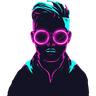
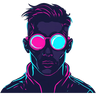
Generate cut-out subjects on white, and colour the ring and band per player
The avatars were cut badly: player 2 had a transparent hole where her face
should be, and the damage was invisible against the dark UI and obvious over any
other colour. The cause is that the neon style draws dark subjects on a
near-black ground, so rembg has to guess which darks are subject and which are
background — and it guessed differently every time. Spot came out perfectly
because a chrome dog has nothing dark about it, which was the clue.

Flooding in from the border seemed like the deterministic answer and made it
worse: coverage fell from 51% to 29%, because the subject's dark is not merely
the same colour as the ground, it is *connected* to it. The fill walks straight
in through the silhouette. It is kept as a first attempt since it suits flat
grounds and cannot eat an interior, with rembg still the fallback.

The fix is upstream: anything with cutout: true is now generated on a plain white
ground whatever the style says, which removes the ambiguity rather than trying to
resolve it. Only the subject is kept, so the ground never appears in the game.
The six avatars are regenerated and cut cleanly — coverage 50-63%, interiors
intact over any background.

The ring and the active-row band now take the player's own colour rather than the
theme accent. Six seats already have six colours and the panel is where they are
read; an accent-coloured marker said 'active' without saying who. Dark green is
[…]

diff --git a/src/ui.ts b/src/ui.ts
@@ -52,6 +52,16 @@ function meterColor(color: string): string {
   return color === DARK_GREEN ? '#57b06a' : color;
 }
 
+/**
+ * The player's colour as a *light* — for the ring and the active-row band.
+ *
+ * Same lift the meters use for dark green, for the same reason: it is drawn against a dark
+ * surface, and #2f7d3f reads as a smudge there.
+ */
+function playerLight(color: string): string {
+  return meterColor(color);
+}
+
 function initialInk(color: string): string {
   return color === DARK_GREEN || color === BLUE ? '#fff' : 'rgb(0 0 0 / .6)';
 }
@@ -790,6 +800,14 @@ export class Ui {
         const snapBottom = bottom >= CENTER.stats.height - 8 ? CENTER.stats.height : bottom;
         band.style.top = `${snapTop}px`;
         band.style.height = `${snapBottom - snapTop}px`;
+        /*
+         * The player's own colour, not the theme accent. Six seats already have six colours and
+         * the panel is where they are read; a single accent said 'active' without saying who.
+         * The wash is kept faint — the names sit on top of it and have to stay legible.
+         */
+        const light = playerLight(p.color);
+        band.style.borderLeftColor = light;
+        band.style.background = `color-mix(in srgb, ${light} 14%, transparent)`;
         panel.append(band);
       }
 
@@ -942,6 +960,9 @@ export class Ui {
         ring.setAttribute('aria-hidden', 'true');
         // Two strokes: the line itself, and a wider blurred copy that lingers as the burn-in.
         // Drawn from twelve o'clock, which is what the rotation is for.
+        // Drawn in the player's own colour: it marks a person, not a state.
+        const light = playerLight(p.color);
+        ring.style.setProperty('--ring', light);
         ring.innerHTML =
           '<svg viewBox="0 0 40 40"><g transform="rotate(-90 20 20)">' +
           '<circle class="ring-burn" cx="20" cy="20" r="18" />' +

diff --git a/src/style.css b/src/style.css
@@ -670,6 +670,7 @@ button.b.primary:disabled { background: var(--ctl); color: var(--ink-3); }
   left: 0;
   width: 100%;
   /* Height is set inline from the row's own extent — see renderStats in ui.ts. */
+  /* Both set inline from the player's colour; these are the fallback. */
   background: var(--accent-soft);
   border-radius: 0 4px 4px 0;
   border-left: 2px solid var(--accent-2);
@@ -748,10 +749,10 @@ button.b.primary:disabled { background: var(--ctl); color: var(--ink-3); }
   stroke-linecap: round;
   animation: avatar-ring 3.6s linear infinite;
 }
-.ring-line { stroke: var(--accent-2); stroke-width: 2.2; }
+.ring-line { stroke: var(--ring, var(--accent-2)); stroke-width: 2.2; }
 /* The afterglow: wider, softer, and a touch behind the line in its fade. */
 .ring-burn {
-  stroke: var(--accent);
+  stroke: var(--ring, var(--accent));
   stroke-width: 3.4;
   filter: blur(2.5px);
   animation-name: avatar-burn;

diff --git a/scripts/cutout.py b/scripts/cutout.py
@@ -85,6 +85,69 @@ def square_pad(img: "Image.Image", transparent: bool) -> "Image.Image":
     return canvas
 
 
+def flood_cutout(img: "Image.Image", tolerance: int = 46) -> "Image.Image":
+    """Remove the background by flooding inward from the edges.
+
+    The neon set is drawn on a flat near-black ground, and so are the subjects: a face is mostly
+    the same darkness as the sky behind it. rembg has to guess which darks are subject and which
+    are background, and it guesses inconsistently — one avatar kept its face, the next had a
+    transparent hole where the face should be, while the chrome dog came out perfectly because
+    nothing about it is dark.
+
+    Flooding from the border cannot make that mistake. Only background *connected to the edge*
+    is removed, so an interior can never be lost however dark it is. It suits flat generated
+    grounds exactly, and unlike a model it gives the same answer every time.
+
+    Returns RGBA, or None-ish (a fully opaque image) if the flood found almost nothing, which is
+    the caller's signal to fall back to rembg.
+    """
+    from PIL import ImageDraw, ImageFilter
+
+    rgb = img.convert("RGB")
+    w, h = rgb.size
+    px = rgb.load()
+
+    # The ground is whatever the corners agree on; the median of the border is robust to a
+    # subject that touches one edge.
+    edge = [px[x, 0] for x in range(0, w, 4)] + [px[x, h - 1] for x in range(0, w, 4)]
+    edge += [px[0, y] for y in range(0, h, 4)] + [px[w - 1, y] for y in range(0, h, 4)]
+    key = tuple(sorted(c[i] for c in edge)[len(edge) // 2] for i in range(3))
+
+    SENTINEL = (1, 254, 3)  # a colour the art will not contain
+    near = lambda c: sum((c[i] - key[i]) ** 2 for i in range(3)) <= tolerance ** 2
+
+    # Seed from every border pixel that still looks like the ground. Stepping by 2 keeps the
+    # cost down without missing a gap.
+    for x in range(0, w, 2):
+        for y in (0, h - 1):
+            if near(px[x, y]):
+                ImageDraw.floodfill(rgb, (x, y), SENTINEL, thresh=tolerance)
+    for y in range(0, h, 2):
+        for x in (0, w - 1):
+            if near(px[x, y]):
+                ImageDraw.floodfill(rgb, (x, y), SENTINEL, thresh=tolerance)
+
+    mask = rgb.point(lambda _: 0)  # placeholder to get a same-size L image
+    mask = Image.new("L", (w, h), 255)
+    mpx = mask.load()
+    removed = 0
+    for y in range(h):
+        for x in range(w):
+            if px[x, y] == SENTINEL:
+                mpx[x, y] = 0
+                removed += 1
+
+    if removed < w * h * 0.08:
+        # Barely anything came away: the ground is not flat, or the subject fills the frame.
+        return None
+
+    # A half-pixel feather, so the edge is not a staircase once it is scaled down.
+    mask = mask.filter(ImageFilter.GaussianBlur(0.6))
+    out = img.convert("RGBA")
+    out.putalpha(mask)
+    return out
+
+
 def unlight(img: "Image.Image") -> "Image.Image":
     """Drain the colour and the glow out of an image.
 
@@ -160,8 +223,12 @@ for job in manifest:
     keeps_aspect = shape in ("landscape", "portrait")
     try:
         if job.get("cutout"):
-            cut = rembg_remove(open(raw, "rb").read())
-            img = Image.open(io.BytesIO(cut)).convert("RGBA")
+            # Flood first: deterministic, and it cannot eat an interior. rembg is the fallback
+            # for anything whose background is not flat enough to flood.
+            img = flood_cutout(Image.open(raw))
+            if img is None:
+                cut = rembg_remove(open(raw, "rb").read())
+                img = Image.open(io.BytesIO(cut)).convert("RGBA")
             if keeps_aspect:
                 # Trim to the subject but keep its proportions: padding a tower to a square
                 # would strand it in empty space.
